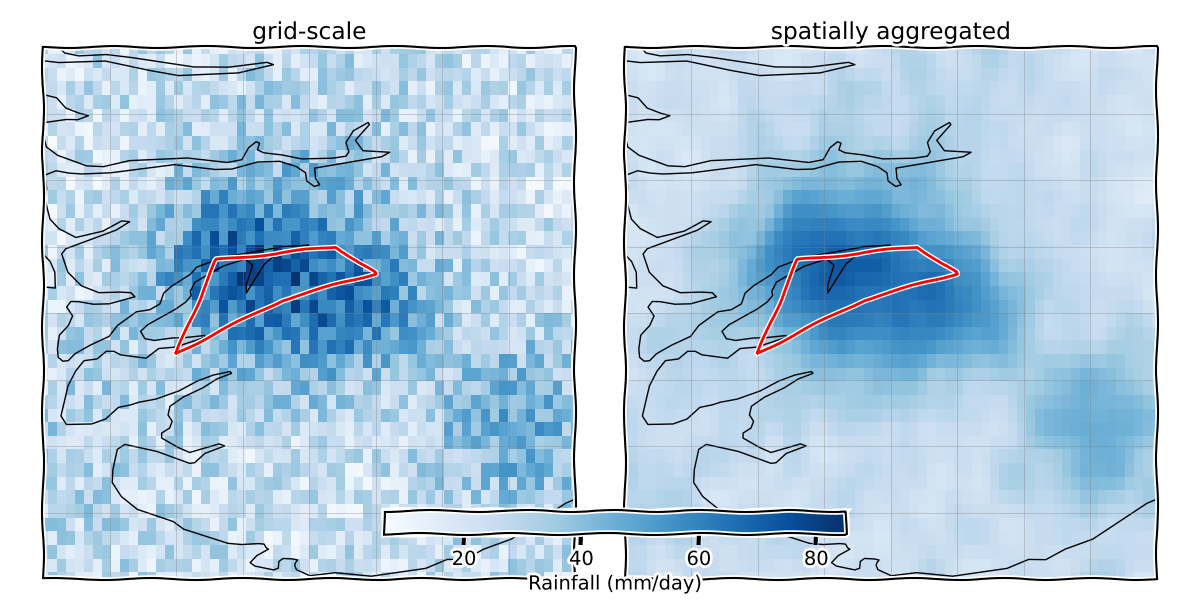
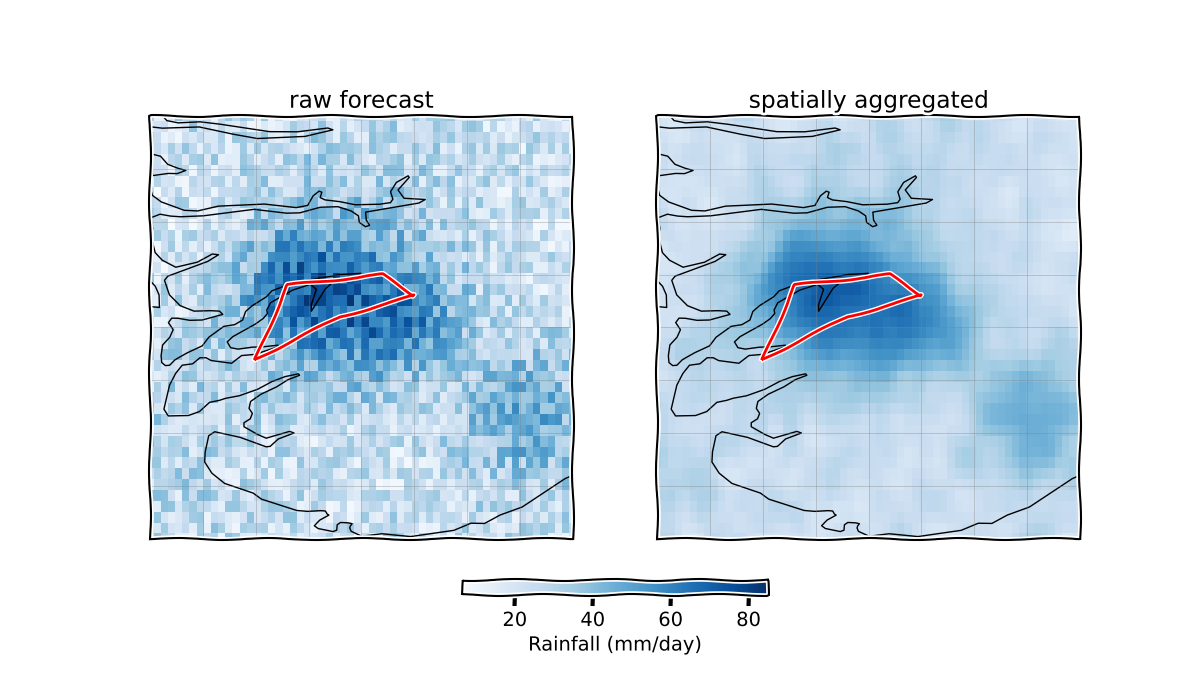
update

diff --git a/code/plot/dummy11.py b/code/plot/dummy11.py
@@ -1,0 +1,136 @@
+import numpy as np
+import matplotlib.pyplot as plt
+import cartopy.crs as ccrs
+from scipy.ndimage import gaussian_filter
+
+# Activate XKCD style
+plt.xkcd()
+
+# -----------------------------
+# 1. Define domain
+# -----------------------------
+lat_min, lat_max = 58, 62
+lon_min, lon_max = 5, 9
+
+num_lat = 40
+num_lon = 60
+
+lat = np.linspace(lat_min, lat_max, num_lat)
+lon = np.linspace(lon_min, lon_max, num_lon)
+LON, LAT = np.meshgrid(lon, lat)
+
+# -----------------------------
+# 2. Create synthetic rainfall
+# -----------------------------
+np.random.seed(42)
+
+# (A) Random noise with higher amplitude
+random_field = 30.0 * np.random.rand(num_lat, num_lon)
+
+# (B) Slightly weaker sinusoidal wave
+wave_pattern = (
+    4 * np.sin(2 * np.pi * (LAT - lat_min) / (lat_max - lat_min))
+    * np.cos(2 * np.pi * (LON - lon_min) / (lon_max - lon_min))
+)
+
+# (C) Multiple Gaussian lumps
+lumps = np.zeros_like(LAT)
+
+center1_lat, center1_lon = 60.0, 7.0
+lump1 = 15.0 * np.exp(-((LAT - center1_lat) ** 2 + (LON - center1_lon) ** 2) / 0.5)
+lumps += lump1
+
+center2_lat, center2_lon = 60.3, 6.7
+lump2 = 25.0 * np.exp(-((LAT - center2_lat) ** 2 + (LON - center2_lon) ** 2) / 0.6)
+lumps += lump2
+
+center3_lat, center3_lon = 60.1, 7.5
+lump3 = 20.0 * np.exp(-((LAT - center3_lat) ** 2 + (LON - center3_lon) ** 2) / 0.2)
+lumps += lump3
+
+center4_lat, center4_lon = 60.4, 6.3
+lump4 = 20.0 * np.exp(-((LAT - center4_lat) ** 2 + (LON - center4_lon) ** 2) / 0.2)
+lumps += lump4
+
+center5_lat, center5_lon = 59.2, 8.5
+lump5 = 20.0 * np.exp(-((LAT - center5_lat) ** 2 + (LON - center5_lon) ** 2) / 0.3)
+lumps += lump5
+
+rain_data_original = 10 + random_field + wave_pattern + lumps
+
+# -----------------------------
+# 3. Apply milder smoothing
+# -----------------------------
+sigma = 1.0
+rain_data_smoothed = gaussian_filter(rain_data_original, sigma=sigma)
+
+# -----------------------------
+# 4. Define watershed polygon
+# -----------------------------
+watershed_lon = [6.0, 6.8, 7.5, 7.2, 6.3, 6.0]
+watershed_lat = [59.7, 60.1, 60.3, 60.5, 60.4, 59.7]
+
+# -----------------------------
+# 5. Plot
+# -----------------------------
+# Make the figure taller and add extra space at the bottom
+fig = plt.figure(figsize=(12,7))
+plt.subplots_adjust(bottom=0.15)
+
+projection = ccrs.PlateCarree()
+
+# Common color scale
+vmin = rain_data_original.min()
+vmax = rain_data_original.max()
+
+# Subplot A: Original Data
+ax1 = fig.add_subplot(1, 2, 1, projection=projection)
+ax1.set_extent([lon_min, lon_max, lat_min, lat_max], crs=projection)
+ax1.coastlines(resolution='50m')
+ax1.gridlines(draw_labels=False, linewidth=0.5, color='gray', alpha=0.5)
+
+pcm1 = ax1.pcolormesh(
+    lon, lat, rain_data_original,
+    cmap='Blues', shading='auto',
+    vmin=vmin, vmax=vmax
+)
+ax1.plot(
+    watershed_lon, watershed_lat,
+    color='red', linewidth=2,
+    transform=ccrs.PlateCarree()
+)
+ax1.set_title('raw forecast')
+
+# Subplot B: Smoothed Data
+ax2 = fig.add_subplot(1, 2, 2, projection=projection)
+ax2.set_extent([lon_min, lon_max, lat_min, lat_max], crs=projection)
+ax2.coastlines(resolution='50m')
+ax2.gridlines(draw_labels=False, linewidth=0.5, color='gray', alpha=0.5)
+
+pcm2 = ax2.pcolormesh(
+    lon, lat, rain_data_smoothed,
+    cmap='Blues', shading='auto',
+    vmin=vmin, vmax=vmax
+)
+ax2.plot(
+    watershed_lon, watershed_lat,
+    color='red', linewidth=2,
+    transform=ccrs.PlateCarree()
+)
+ax2.set_title('spatially aggregated')
+
+# Single Horizontal Colorbar
+sm = plt.cm.ScalarMappable(norm=pcm1.norm, cmap=pcm1.cmap)
+sm.set_array([])
+cbar = plt.colorbar(
+    sm,
+    ax=[ax1, ax2],
+    orientation='horizontal',
+    fraction=0.03,   # smaller fraction => narrower bar
+    pad=0.08        # more space between bar & panels
+)
+cbar.set_label('Rainfall (mm/day)')
+
+write2file = True
+if write2file: plt.savefig('/nird/home/edu061/cf-forsikring/fig/paper/XXX.png')
+plt.show()
